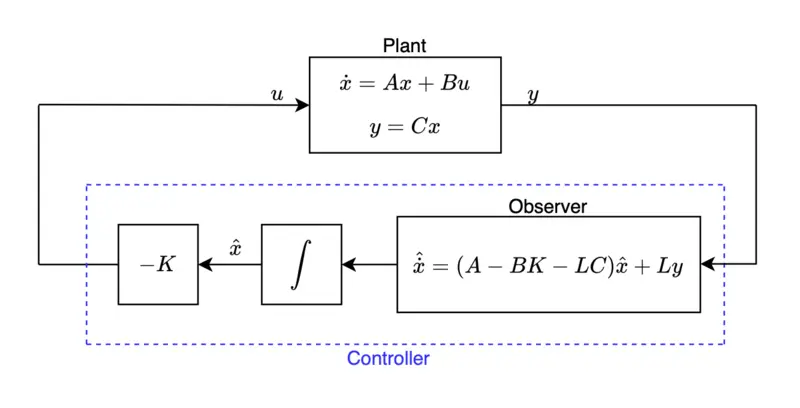
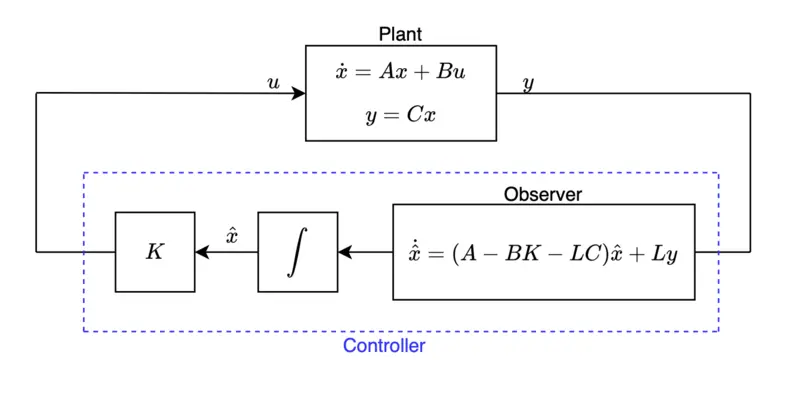
Deploying to gh-pages from @ jinhyunpark2459/jinhyunpark2459.github.io@a28fbe89726f574f61cf124d50fdabb1d66561fd 🚀

Changed region(s): [[0.0312, 0.0594, 0.9688, 0.9208]]

diff --git a/2021/07/04/diagrams.html b/2021/07/04/diagrams.html
@@ -147,8 +147,8 @@ sequenceDiagram
 </code></pre></div></div>
 
 <div class="jekyll-diagrams diagrams mermaid">
-  <svg id="mermaid-1708582326804" width="100%" xmlns="http://www.w3.org/2000/svg" height="100%" style="max-width:450px;" viewbox="-50 -10 450 231"><style>#mermaid-1708582326804 .label{font-family:trebuchet ms,verdana,arial;color:#333}#mermaid-1708582326804 .node circle,#mermaid-1708582326804 .node ellipse,#mermaid-1708582326804 .node polygon,#mermaid-1708582326804 .node rect{fill:#ececff;stroke:#9370db;stroke-width:1px}#mermaid-1708582326804 .node.clickable{cursor:pointer}#mermaid-1708582326804 .arrowheadPath{fill:#333}#mermaid-1708582326804 .edgePath .path{stroke:#333;stroke-width:1.5px}#mermaid-1708582326804 .edgeLabel{background-color:#e8e8e8}#mermaid-1708582326804 .cluster rect{fill:#ffffde!important;stroke:#aa3!important;stroke-width:1px!important}#mermaid-1708582326804 .cluster text{fill:#333}#mermaid-1708582326804 div.mermaidTooltip{position:absolute;text-align:center;max-width:200px;padding:2px;font-family:trebuchet ms,verdana,arial;font-size:12px;background:#ffffde;border:1px solid #aa3;border-radius:2px;pointer-events:none;z-index:100}#mermaid-1708582326804 .actor{stroke:#ccf;fill:#ececff}#mermaid-1708582326804 text.actor{fill:#000;stroke:none}#mermaid-1708582326804 .actor-line{stroke:grey}#mermaid-1708582326804 .messageLine0{marker-end:"url(#arrowhead)"}#mermaid-1708582326804 .messageLine0,#mermaid-1708582326804 .messageLine1{stroke-width:1.5;stroke-dasharray:"2 2";stroke:#333}#mermaid-1708582326804 #arrowhead{fill:#333}#mermaid-1708582326804 #crosshead path{fill:#333!important;stroke:#333!important}#mermaid-1708582326804 .messageText{fill:#333;stroke:none}#mermaid-1708582326804 .labelBox{stroke:#ccf;fill:#ececff}#mermaid-1708582326804 .labelText,#mermaid-1708582326804 .loopText{fill:#000;stroke:none}#mermaid-1708582326804 .loopLine{stroke-width:2;stroke-dasharray:"2 2";marker-end:"url(#arrowhead)";stroke:#ccf}#mermaid-1708582326804 .note{stroke:#aa3;fill:#fff5ad}#mermaid-1708582326804 .noteText{fill:#000;stroke:none;font-family:trebuchet ms,verdana,arial;font-size:14px}#mermaid-1708582326804 .section{stroke:none;opacity:.2}#mermaid-1708582326804 .section0{fill:rgba(102,102,255,.49)}#mermaid-1708582326804 .section2{fill:#fff400}#mermaid-1708582326804 .section1,#mermaid-1708582326804 .section3{fill:#fff;opacity:.2}#mermaid-1708582326804 .sectionTitle0,#mermaid-1708582326804 .sectionTitle1,#mermaid-1708582326804 .sectionTitle2,#mermaid-1708582326804 .sectionTitle3{fill:#333}#mermaid-1708582326804 .sectionTitle{text-anchor:start;font-size:11px;text-height:14px}#mermaid-1708582326804 .grid .tick{stroke:#d3d3d3;opacity:.3;shape-rendering:crispEdges}#mermaid-1708582326804 .grid path{stroke-width:0}#mermaid-1708582326804 .today{fill:none;stroke:red;stroke-width:2px}#mermaid-1708582326804 .task{stroke-width:2}#mermaid-1708582326804 .taskText{text-anchor:middle;font-size:11px}#mermaid-1708582326804 .taskTextOutsideRight{fill:#000;text-anchor:start;font-size:11px}#mermaid-1708582326804 .taskTextOutsideLeft{fill:#000;text-anchor:end;font-size:11px}#mermaid-1708582326804 .taskText0,#mermaid-1708582326804 .taskText1,#mermaid-1708582326804 .taskText2,#mermaid-1708582326804 .taskText3{fill:#fff}#mermaid-1708582326804 .task0,#mermaid-1708582326804 .task1,#mermaid-1708582326804 .task2,#mermaid-1708582326804 .task3{fill:#8a90dd;stroke:#534fbc}#mermaid-1708582326804 .taskTextOutside0,#mermaid-1708582326804 .taskTextOutside1,#mermaid-1708582326804 .taskTextOutside2,#mermaid-1708582326804 .taskTextOutside3{fill:#000}#mermaid-1708582326804 .active0,#mermaid-1708582326804 .active1,#mermaid-1708582326804 .active2,#mermaid-1708582326804 .active3{fill:#bfc7ff;stroke:#534fbc}#mermaid-1708582326804 .activeText0,#mermaid-1708582326804 .activeText1,#mermaid-1708582326804 .activeText2,#mermaid-1708582326804 .activeText3{fill:#000!important}#mermaid-1708582326804 .done0,#mermaid-1708582326804 .done1,#mermaid-1708582326804 .done2,#mermaid-1708582326804 .done3{stroke:grey;fill:#d3d3d3;stroke-width:2}#mermaid-1708582326804 .doneText0,#mermaid-1708582326804 .doneText1,#mermaid-1708582326804 .doneText2,#mermaid-1708582326804 .doneText3{fill:#000!important}#mermaid-1708582326804 .crit0,#mermaid-1708582326804 .crit1,#mermaid-1708582326804 .crit2,#mermaid-1708582326804 .crit3{stroke:#f88;fill:red;stroke-width:2}#mermaid-1708582326804 .activeCrit0,#mermaid-1708582326804 .activeCrit1,#mermaid-1708582326804 .activeCrit2,#mermaid-1708582326804 .activeCrit3{stroke:#f88;fill:#bfc7ff;stroke-width:2}#mermaid-1708582326804 .doneCrit0,#mermaid-1708582326804 .doneCrit1,#mermaid-1708582326804 .doneCrit2,#mermaid-1708582326804 .doneCrit3{stroke:#f88;fill:#d3d3d3;stroke-width:2;cursor:pointer;shape-rendering:crispEdges}#mermaid-1708582326804 .activeCritText0,#mermaid-1708582326804 .activeCritText1,#mermaid-1708582326804 .activeCritText2,#mermaid-1708582326804 .activeCritText3,#mermaid-1708582326804 .doneCritText0,#mermaid-1708582326804 .doneCritText1,#mermaid-1708582326804 .doneCritText2,#mermaid-1708582326804 .doneCritText3{fill:#000!important}#mermaid-1708582326804 .titleText{text-anchor:middle;font-size:18px;fill:#000}#mermaid-1708582326804 g.classGroup text{fill:#9370db;stroke:none;font-family:trebuchet ms,verdana,arial;font-size:10px}#mermaid-1708582326804 g.classGroup rect{fill:#ececff;stroke:#9370db}#mermaid-1708582326804 g.classGroup line{stroke:#9370db;stroke-width:1}#mermaid-1708582326804 .classLabel .box{stroke:none;stroke-width:0;fill:#ececff;opacity:.5}#mermaid-1708582326804 .classLabel .label{fill:#9370db;font-size:10px}#mermaid-1708582326804 .relation{stroke:#9370db;stroke-width:1;fill:none}#mermaid-1708582326804 #compositionEnd,#mermaid-1708582326804 #compositionStart{fill:#9370db;stroke:#9370db;stroke-width:1}#mermaid-1708582326804 #aggregationEnd,#mermaid-1708582326804 #aggregationStart{fill:#ececff;stroke:#9370db;stroke-width:1}#mermaid-1708582326804 #dependencyEnd,#mermaid-1708582326804 #dependencyStart,#mermaid-1708582326804 #extensionEnd,#mermaid-1708582326804 #extensionStart{fill:#9370db;stroke:#9370db;stroke-width:1}#mermaid-1708582326804 .branch-label,#mermaid-1708582326804 .commit-id,#mermaid-1708582326804 .commit-msg{fill:#d3d3d3;color:#d3d3d3}</style>
-<style>#mermaid-1708582326804 {
+  <svg id="mermaid-1710616017155" width="100%" xmlns="http://www.w3.org/2000/svg" height="100%" style="max-width:450px;" viewbox="-50 -10 450 231"><style>#mermaid-1710616017155 .label{font-family:trebuchet ms,verdana,arial;color:#333}#mermaid-1710616017155 .node circle,#mermaid-1710616017155 .node ellipse,#mermaid-1710616017155 .node polygon,#mermaid-1710616017155 .node rect{fill:#ececff;stroke:#9370db;stroke-width:1px}#mermaid-1710616017155 .node.clickable{cursor:pointer}#mermaid-1710616017155 .arrowheadPath{fill:#333}#mermaid-1710616017155 .edgePath .path{stroke:#333;stroke-width:1.5px}#mermaid-1710616017155 .edgeLabel{background-color:#e8e8e8}#mermaid-1710616017155 .cluster rect{fill:#ffffde!important;stroke:#aa3!important;stroke-width:1px!important}#mermaid-1710616017155 .cluster text{fill:#333}#mermaid-1710616017155 div.mermaidTooltip{position:absolute;text-align:center;max-width:200px;padding:2px;font-family:trebuchet ms,verdana,arial;font-size:12px;background:#ffffde;border:1px solid #aa3;border-radius:2px;pointer-events:none;z-index:100}#mermaid-1710616017155 .actor{stroke:#ccf;fill:#ececff}#mermaid-1710616017155 text.actor{fill:#000;stroke:none}#mermaid-1710616017155 .actor-line{stroke:grey}#mermaid-1710616017155 .messageLine0{marker-end:"url(#arrowhead)"}#mermaid-1710616017155 .messageLine0,#mermaid-1710616017155 .messageLine1{stroke-width:1.5;stroke-dasharray:"2 2";stroke:#333}#mermaid-1710616017155 #arrowhead{fill:#333}#mermaid-1710616017155 #crosshead path{fill:#333!important;stroke:#333!important}#mermaid-1710616017155 .messageText{fill:#333;stroke:none}#mermaid-1710616017155 .labelBox{stroke:#ccf;fill:#ececff}#mermaid-1710616017155 .labelText,#mermaid-1710616017155 .loopText{fill:#000;stroke:none}#mermaid-1710616017155 .loopLine{stroke-width:2;stroke-dasharray:"2 2";marker-end:"url(#arrowhead)";stroke:#ccf}#mermaid-1710616017155 .note{stroke:#aa3;fill:#fff5ad}#mermaid-1710616017155 .noteText{fill:#000;stroke:none;font-family:trebuchet ms,verdana,arial;font-size:14px}#mermaid-1710616017155 .section{stroke:none;opacity:.2}#mermaid-1710616017155 .section0{fill:rgba(102,102,255,.49)}#mermaid-1710616017155 .section2{fill:#fff400}#mermaid-1710616017155 .section1,#mermaid-1710616017155 .section3{fill:#fff;opacity:.2}#mermaid-1710616017155 .sectionTitle0,#mermaid-1710616017155 .sectionTitle1,#mermaid-1710616017155 .sectionTitle2,#mermaid-1710616017155 .sectionTitle3{fill:#333}#mermaid-1710616017155 .sectionTitle{text-anchor:start;font-size:11px;text-height:14px}#mermaid-1710616017155 .grid .tick{stroke:#d3d3d3;opacity:.3;shape-rendering:crispEdges}#mermaid-1710616017155 .grid path{stroke-width:0}#mermaid-1710616017155 .today{fill:none;stroke:red;stroke-width:2px}#mermaid-1710616017155 .task{stroke-width:2}#mermaid-1710616017155 .taskText{text-anchor:middle;font-size:11px}#mermaid-1710616017155 .taskTextOutsideRight{fill:#000;text-anchor:start;font-size:11px}#mermaid-1710616017155 .taskTextOutsideLeft{fill:#000;text-anchor:end;font-size:11px}#mermaid-1710616017155 .taskText0,#mermaid-1710616017155 .taskText1,#mermaid-1710616017155 .taskText2,#mermaid-1710616017155 .taskText3{fill:#fff}#mermaid-1710616017155 .task0,#mermaid-1710616017155 .task1,#mermaid-1710616017155 .task2,#mermaid-1710616017155 .task3{fill:#8a90dd;stroke:#534fbc}#mermaid-1710616017155 .taskTextOutside0,#mermaid-1710616017155 .taskTextOutside1,#mermaid-1710616017155 .taskTextOutside2,#mermaid-1710616017155 .taskTextOutside3{fill:#000}#mermaid-1710616017155 .active0,#mermaid-1710616017155 .active1,#mermaid-1710616017155 .active2,#mermaid-1710616017155 .active3{fill:#bfc7ff;stroke:#534fbc}#mermaid-1710616017155 .activeText0,#mermaid-1710616017155 .activeText1,#mermaid-1710616017155 .activeText2,#mermaid-1710616017155 .activeText3{fill:#000!important}#mermaid-1710616017155 .done0,#mermaid-1710616017155 .done1,#mermaid-1710616017155 .done2,#mermaid-1710616017155 .done3{stroke:grey;fill:#d3d3d3;stroke-width:2}#mermaid-1710616017155 .doneText0,#mermaid-1710616017155 .doneText1,#mermaid-1710616017155 .doneText2,#mermaid-1710616017155 .doneText3{fill:#000!important}#mermaid-1710616017155 .crit0,#mermaid-1710616017155 .crit1,#mermaid-1710616017155 .crit2,#mermaid-1710616017155 .crit3{stroke:#f88;fill:red;stroke-width:2}#mermaid-1710616017155 .activeCrit0,#mermaid-1710616017155 .activeCrit1,#mermaid-1710616017155 .activeCrit2,#mermaid-1710616017155 .activeCrit3{stroke:#f88;fill:#bfc7ff;stroke-width:2}#mermaid-1710616017155 .doneCrit0,#mermaid-1710616017155 .doneCrit1,#mermaid-1710616017155 .doneCrit2,#mermaid-1710616017155 .doneCrit3{stroke:#f88;fill:#d3d3d3;stroke-width:2;cursor:pointer;shape-rendering:crispEdges}#mermaid-1710616017155 .activeCritText0,#mermaid-1710616017155 .activeCritText1,#mermaid-1710616017155 .activeCritText2,#mermaid-1710616017155 .activeCritText3,#mermaid-1710616017155 .doneCritText0,#mermaid-1710616017155 .doneCritText1,#mermaid-1710616017155 .doneCritText2,#mermaid-1710616017155 .doneCritText3{fill:#000!important}#mermaid-1710616017155 .titleText{text-anchor:middle;font-size:18px;fill:#000}#mermaid-1710616017155 g.classGroup text{fill:#9370db;stroke:none;font-family:trebuchet ms,verdana,arial;font-size:10px}#mermaid-1710616017155 g.classGroup rect{fill:#ececff;stroke:#9370db}#mermaid-1710616017155 g.classGroup line{stroke:#9370db;stroke-width:1}#mermaid-1710616017155 .classLabel .box{stroke:none;stroke-width:0;fill:#ececff;opacity:.5}#mermaid-1710616017155 .classLabel .label{fill:#9370db;font-size:10px}#mermaid-1710616017155 .relation{stroke:#9370db;stroke-width:1;fill:none}#mermaid-1710616017155 #compositionEnd,#mermaid-1710616017155 #compositionStart{fill:#9370db;stroke:#9370db;stroke-width:1}#mermaid-1710616017155 #aggregationEnd,#mermaid-1710616017155 #aggregationStart{fill:#ececff;stroke:#9370db;stroke-width:1}#mermaid-1710616017155 #dependencyEnd,#mermaid-1710616017155 #dependencyStart,#mermaid-1710616017155 #extensionEnd,#mermaid-1710616017155 #extensionStart{fill:#9370db;stroke:#9370db;stroke-width:1}#mermaid-1710616017155 .branch-label,#mermaid-1710616017155 .commit-id,#mermaid-1710616017155 .commit-msg{fill:#d3d3d3;color:#d3d3d3}</style>
+<style>#mermaid-1710616017155 {
     color: rgb(0, 0, 0);
     font: normal normal 400 normal 16px / normal "Times New Roman";
   }</style>

diff --git a/projects/inverted_pendulum_2/index.html b/projects/inverted_pendulum_2/index.html
@@ -272,7 +272,7 @@ H^{-1}\begin{bmatrix} \alpha_{1} \\ 0 \end{bmatrix}\]
 
 \[y=Cx\]
 
-\[\hat{\dot{x}}=(A-BK-LC)\hat{x}+Ly\]
+\[\dot{\hat{x}}=(A-BK-LC)\hat{x}+Ly\]
 
 \[u=-K\hat{x}\]
 
